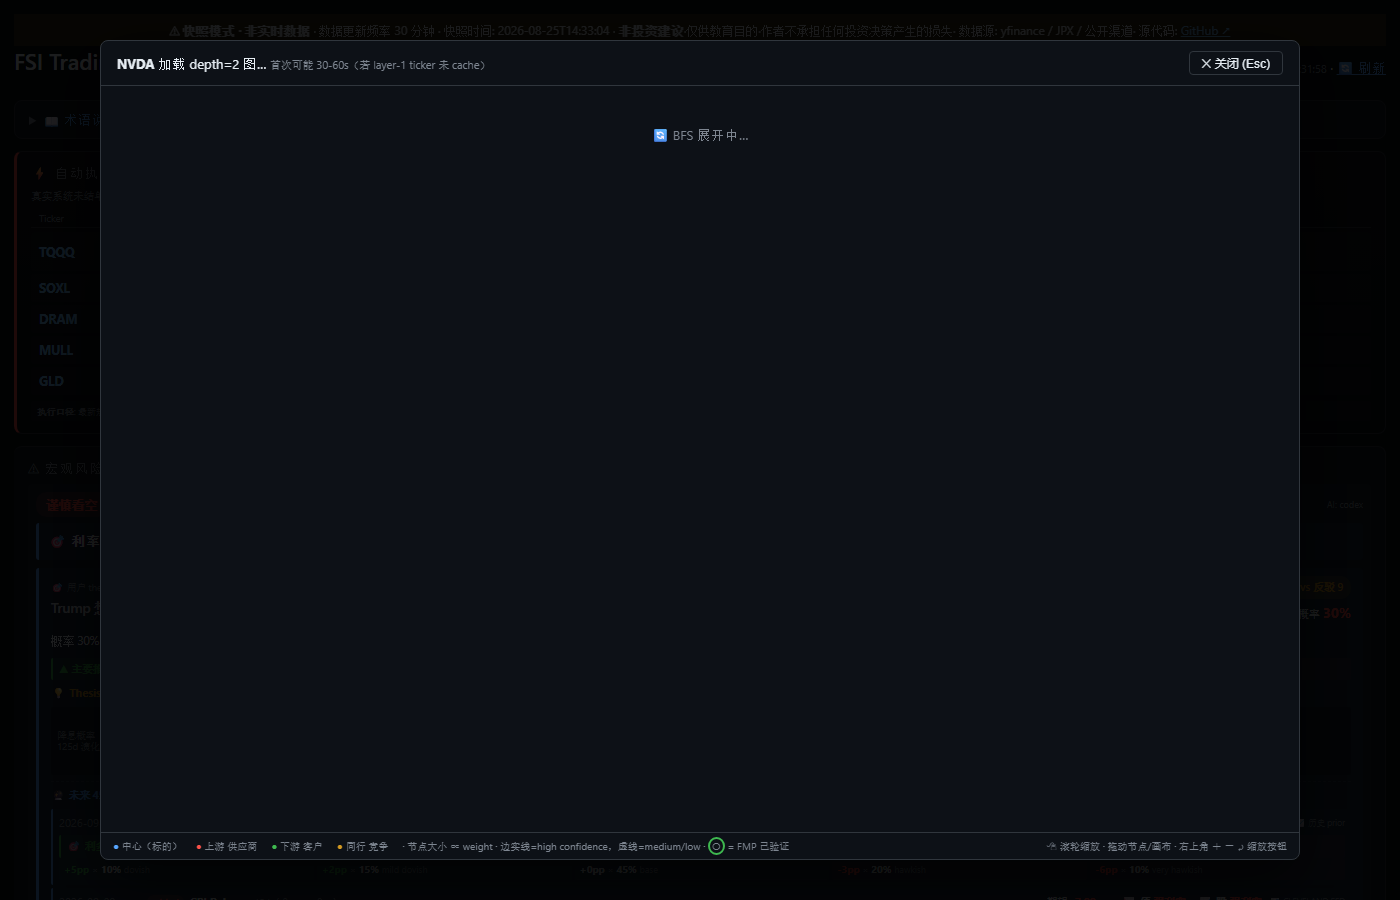
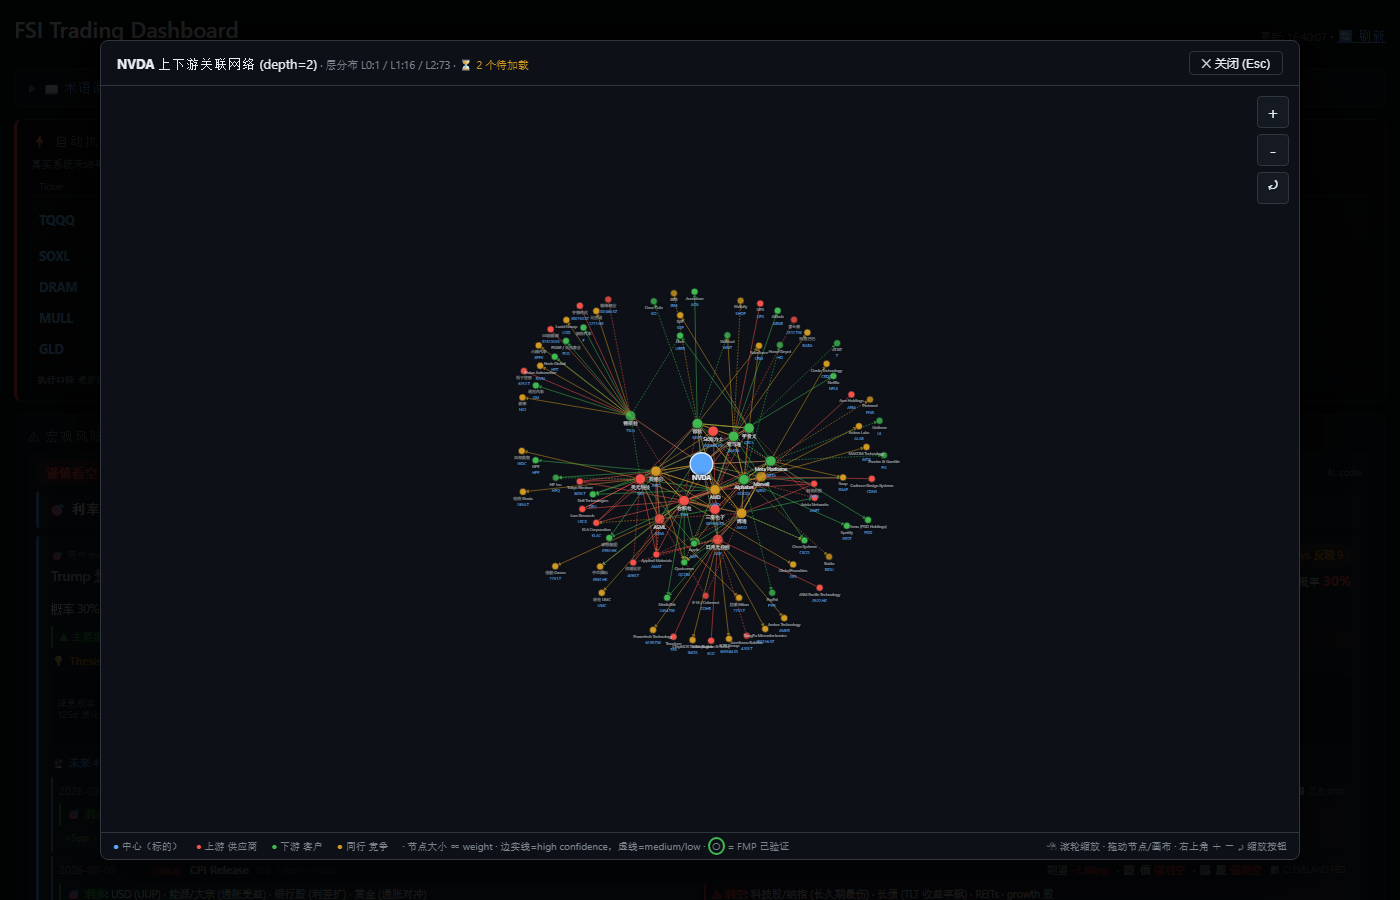
docs: refresh v0.4 screenshots + add _capture_screenshots.py
自动化截图脚本 (playwright + headless chromium), 4 张全部刷新:
- dashboard-full.png / dashboard-full-expanded.png: 从 live GitHub Pages 截
  (含 policy_toolkit / thesis_forecast 等 v0.4 新面板)
- supply-chain-nvda-graph.png (depth=1): 16 节点直接邻居
- supply-chain-nvda-depth2.png (depth=2): 116 节点 BFS 2 跳扩展
  (走 local webui 因为 depth=2 需要 14+ layer-1 ticker 的 depth-1 JSON,
  静态快照只有 15 个不够, 后端可实时补齐)

用法:
  python _capture_screenshots.py         # live GitHub Pages (默认)
  python _capture_screenshots.py --local # local webui (需 webui.bat)
  python _capture_screenshots.py --static # file:// docs/index.html

diff --git a/agents/_capture_screenshots.py b/agents/_capture_screenshots.py
@@ -1,0 +1,177 @@
+"""
+_capture_screenshots.py — 无头 Chromium 自动截图 dashboard, 写到 docs/
+
+跑法:
+  # 用 live GitHub Pages (默认, 稳定, 与用户看到的一致)
+  python _capture_screenshots.py
+
+  # 用 local webui (需 webui.bat 在跑, 数据最新)
+  python _capture_screenshots.py --local
+
+  # 用本地 docs/index.html (需先跑 snapshot_generator)
+  python _capture_screenshots.py --static
+
+截 4 张:
+  docs/dashboard-full.png              主视图 (默认折叠)
+  docs/dashboard-full-expanded.png     ?expand=all
+  docs/supply-chain-nvda-graph.png     ?graph=NVDA&depth=1
+  docs/supply-chain-nvda-depth2.png    ?graph=NVDA&depth=2
+
+每张:
+  1. 打开 URL, 等 fetchJson 完成 (最多 60s, 直到 loading spinner 消失)
+  2. 全页面截图 (full_page=True)
+  3. 存到 docs/ 覆盖同名
+"""
+from __future__ import annotations
+
+import argparse
+import sys
+import time
+from pathlib import Path
+
+REPO_ROOT = Path(__file__).resolve().parent.parent
+DOCS_DIR = REPO_ROOT / "docs"
+
+# ── URL 源 ──────────────────────────────────────────────────────────────────
+LIVE_URL  = "https://zzwjlwwdtg.github.io/quant-trading-framework/"
+LOCAL_URL = "http://127.0.0.1:8080/"
+STATIC_URL = (DOCS_DIR / "index.html").resolve().as_uri()
+
+
+# ── 截图任务 ────────────────────────────────────────────────────────────────
+# (输出文件名, URL 后缀, 视窗尺寸, 首选源)
+#   "live"  = GitHub Pages 静态快照 (有 policy_toolkit 等预算好的 JSON)
+#   "local" = 本地 webui (有实时后端 API, 支持 depth=2 BFS)
+#   "auto"  = 用 --local / 默认 live
+CAPTURES = [
+    ("dashboard-full.png",           "",                    (1600, 900), "auto"),
+    ("dashboard-full-expanded.png",  "?expand=all",         (1600, 900), "auto"),
+    # depth=2 BFS 需 14+ 个 layer-1 ticker 的 depth-1 JSON, 静态快照只有 15 个,
+    # 强制走本地 webui 后端能补齐; depth=1 用哪个都行, 一起走本地保持一致.
+    ("supply-chain-nvda-graph.png",  "?graph=NVDA&depth=1", (1400, 900), "local"),
+    ("supply-chain-nvda-depth2.png", "?graph=NVDA&depth=2", (1400, 900), "local"),
+]
+
+
+def _wait_for_data_loaded(page, timeout_sec: int = 60) -> None:
+    """等 dashboard 数据 fetch 完成 —— 心跳看有没有 signal 卡出现或者 loading 文案消失。
+    dashboard 用 fetchJson 并发拉多个 endpoint, 我们盯 body 里的一些标志物文本。"""
+    deadline = time.time() + timeout_sec
+    while time.time() < deadline:
+        try:
+            # 优先检测: signal-card 已渲染
+            # 备选: 顶部 macro block 显示了 bond monitor 数字
+            cards = page.locator("div.signal-card").count()
+            if cards >= 3:
+                # 再等 3s 让所有 fetch 收尾 (期权/GEX/supply chain 是懒加载)
+                page.wait_for_timeout(3000)
+                return
+        except Exception:
+            pass
+        page.wait_for_timeout(500)
+    # 超时也继续截, 只 print warning
+    print(f"  warn: data-loaded probe timeout {timeout_sec}s, capturing anyway")
+
+
+def _wait_for_graph(page, timeout_sec: int = 90) -> None:
+    """等蜘蛛网 SVG 渲染出来 (?graph=... 会弹 modal + D3 生成节点)。
+
+    depth=1: 通常 <5s 因为 layer-1 cache 命中
+    depth=2: 首次 30-60s (BFS 展开所有下游的下游)
+    检测: modal 内的 svg circle ≥ 5 = 图已渲染
+    """
+    deadline = time.time() + timeout_sec
+    while time.time() < deadline:
+        try:
+            # 只看 modal 内的 svg, 避免匹配主页其它 SVG (期权墙等)
+            circles = page.locator("#sc-modal svg circle").count()
+            if circles >= 5:
+                page.wait_for_timeout(3500)  # 让 D3 力导向 layout stabilize
+                return
+        except Exception:
+            pass
+        page.wait_for_timeout(1000)
+    print(f"  warn: graph probe timeout {timeout_sec}s")
+
+
+def capture(default_base: str, default_label: str) -> list[Path]:
+    from playwright.sync_api import sync_playwright
+    saved: list[Path] = []
+
+    with sync_playwright() as p:
+        browser = p.chromium.launch()
+        for filename, suffix, (vw, vh), preferred in CAPTURES:
+            # 决定单张的 base:
+            #   preferred="live"  → 强制 LIVE_URL
+            #   preferred="local" → 强制 LOCAL_URL
+            #   preferred="auto"  → 用 default (--local / 默认 live)
+            if preferred == "live":
+                base_url, source_label = LIVE_URL, "live"
+            elif preferred == "local":
+                base_url, source_label = LOCAL_URL, "local"
+            else:
+                base_url, source_label = default_base, default_label
+            url = base_url + suffix
+            out_path = DOCS_DIR / filename
+            print(f"[{source_label}] {filename} <- {url} ({vw}x{vh})")
+
+            context = browser.new_context(
+                viewport={"width": vw, "height": vh},
+                device_scale_factor=1,  # 1x, 不 retina
+            )
+            page = context.new_page()
+            try:
+                page.goto(url, wait_until="networkidle", timeout=90_000)
+            except Exception as e:
+                print(f"  warn: goto networkidle timeout: {e}")
+
+            is_graph = "graph=" in suffix
+            is_depth2 = "depth=2" in suffix
+            if is_graph:
+                # 主页数据 + 蜘蛛网都要等
+                _wait_for_data_loaded(page, timeout_sec=45)
+                # depth=2 首次 30-60s BFS, 给 120s buffer
+                _wait_for_graph(page, timeout_sec=120 if is_depth2 else 30)
+                # 只截 modal (蜘蛛网 overlay), 不要拖着下面整页 dashboard
+                try:
+                    modal = page.locator("#sc-modal")
+                    modal.screenshot(path=str(out_path))
+                except Exception as e:
+                    print(f"  warn: modal locator failed ({e}), fallback viewport")
+                    page.screenshot(path=str(out_path), full_page=False)
+            else:
+                _wait_for_data_loaded(page, timeout_sec=60)
+                page.screenshot(path=str(out_path), full_page=True)
+            saved.append(out_path)
+            print(f"  saved: {out_path.name} ({out_path.stat().st_size // 1024} KB)")
+            context.close()
+
+        browser.close()
+    return saved
+
+
+def main():
+    ap = argparse.ArgumentParser()
+    grp = ap.add_mutually_exclusive_group()
+    grp.add_argument("--local", action="store_true",
+                     help="use http://127.0.0.1:8080 (needs webui.bat)")
+    grp.add_argument("--static", action="store_true",
+                     help="use file:// docs/index.html (needs snapshot first)")
+    args = ap.parse_args()
+
+    if args.local:
+        base, label = LOCAL_URL, "local"
+    elif args.static:
+        base, label = STATIC_URL, "static"
+    else:
+        base, label = LIVE_URL, "live"
+
+    print(f"== capturing from {label}: {base} ==")
+    saved = capture(base, label)
+    print(f"\n== done: {len(saved)} screenshots ==")
+    for p in saved:
+        print(f"  {p.relative_to(REPO_ROOT)}")
+
+
+if __name__ == "__main__":
+    main()
